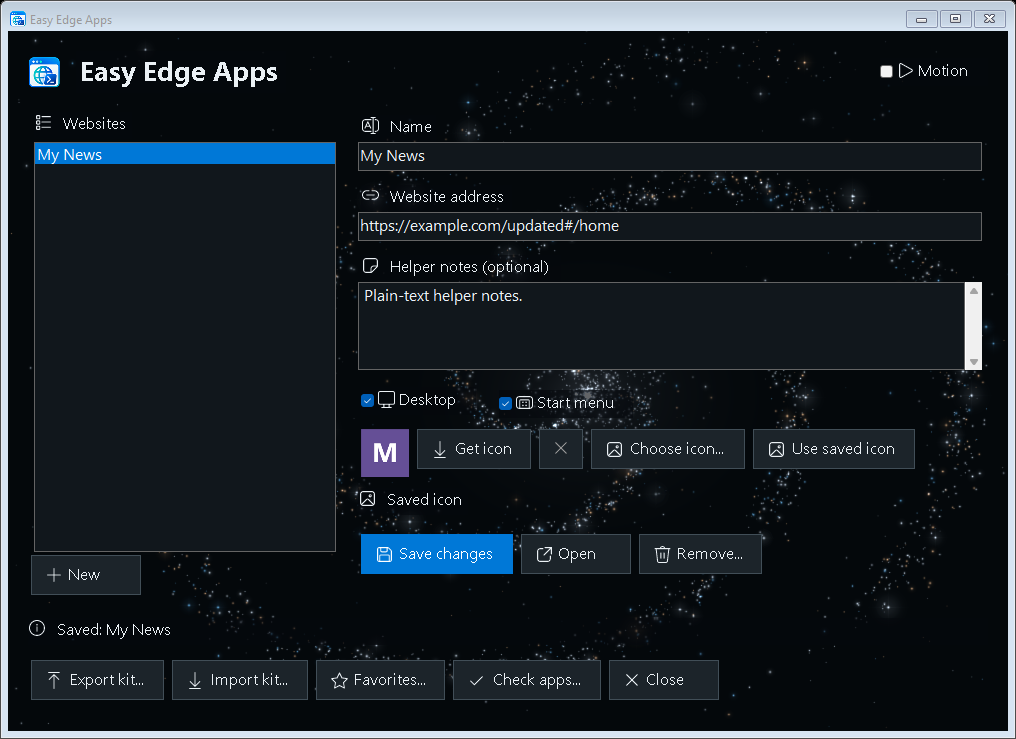
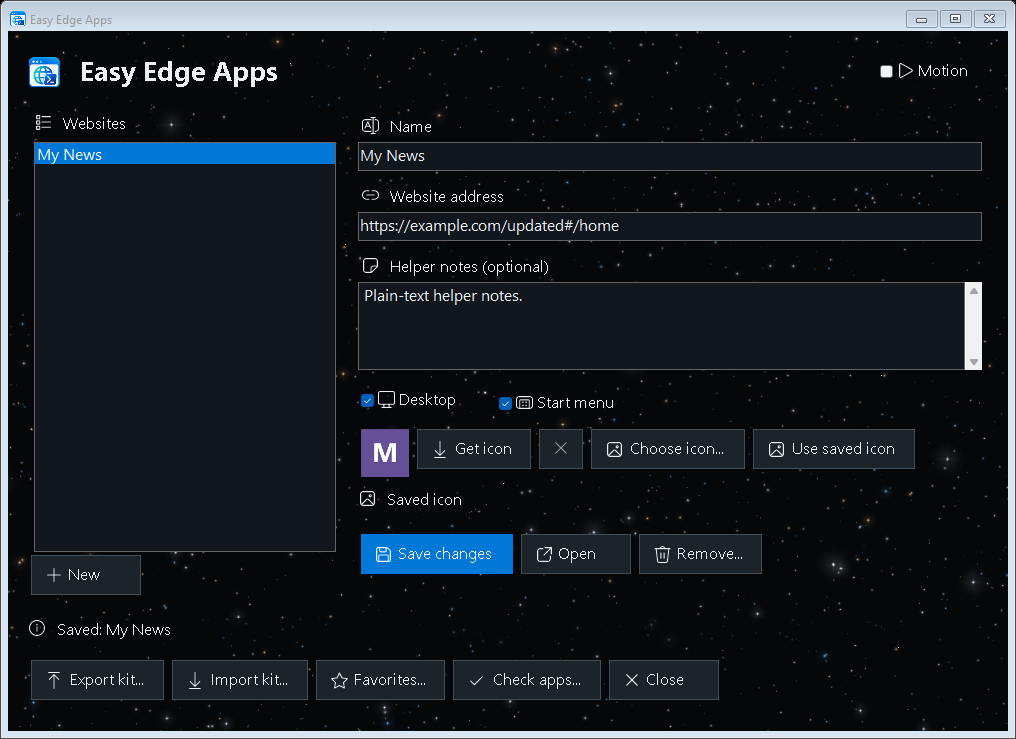
Scatter stars and keep visible backgrounds moving without focus

diff --git a/docs/releases/v1.2.0.md b/docs/releases/v1.2.0.md
@@ -8,7 +8,7 @@ Website icons, command-line automation, and an updated native Windows setup expe
 - **Command-line automation:** `-Unattended` explicitly approves supported operations without setup dialogs or confirmation prompts, preserves validation and `-WhatIf`, returns structured results, and provides explicit success/failure exit codes. Kit import supports selected `-AppNames`; encrypted operations continue to accept caller-managed `SecureString` values only.
 - **Built-in help:** `--help`, `-h`, `-Help`, and PowerShell's standard `-?` display help without opening setup or performing an operation.
 - **Refreshed native controls:** Embedded application branding, Windows-style command and field icons, accessible tooltips, and enlarged-font layouts. Ctrl+Backspace deletes words without inserting control characters and retains native undo.
-- **Animated space background:** Original, locally rendered stars move independently of the mouse, with gently eased parallax. The **Motion** checkbox pauses animation. Reduced-motion, remote-session, high-contrast, and inactive-window behavior keep accessibility and resource use in view.
+- **Animated space background:** Original, locally rendered stars are scattered across a dark sky and drift gently, with no spiral or orbital motion. They keep moving even when the mouse is outside the window or another application has focus, with gently eased parallax when the mouse is inside. The **Motion** checkbox pauses animation, as do hiding, minimizing, or resizing setup. Reduced-motion and remote-session settings keep the scene still; high contrast removes it.
 
 ## Fixes and hardening
 
@@ -37,6 +37,6 @@ Ownership, preflight, per-app staging, locking, and caught-error rollback remain
 
 ## Verification
 
-Ten isolated suites cover shortcut ownership and rollback, JSON portability and bounds, Favorites, favicon discovery and conversion, real background workers and cancellation, App Kits and repair, cryptographic vectors, encrypted-file interoperability, public CLI binding, and both native GUI surfaces. The runner covers Windows PowerShell 5.1 and PowerShell 7, including 12-, 18-, and 24-point layouts within 1024 by 768 and stale UI-assembly reloads.
+Ten isolated suites cover shortcut ownership and rollback, JSON portability and bounds, Favorites, favicon discovery and conversion, real background workers and cancellation, App Kits and repair, cryptographic vectors, encrypted-file interoperability, public CLI binding, and both native GUI surfaces. The runner covers Windows PowerShell 5.1 and PowerShell 7, including 12-, 18-, and 24-point layouts within 1024 by 768, stale UI-assembly reloads, scattered-star pixel coverage, and animation without mouse input or window focus.
 
 Live public-site favicon retrieval is also checked separately from the deterministic offline suite. Real-site sign-in, physical high-DPI/high-contrast/Narrator use, cross-computer handover, and OneDrive/network-filesystem behavior still require acceptance checks on the intended computers. See the README, automation guide, security guidance, and App Kit specification for details.

diff --git a/README.md b/README.md
@@ -33,7 +33,7 @@ This execution-policy option applies only to that PowerShell process. It does no
 
 Use ordinary site addresses, not password-reset links, one-time sign-in links, or URLs containing secrets. Addresses, including query strings and fragments, are saved locally in clear text.
 
-![The setup window with a spiral starfield, a saved website, Get icon controls, and a Motion checkbox.](docs/images/setup.png)
+![The setup window with scattered stars, a saved website, Get icon controls, and a Motion checkbox.](docs/images/setup.png)
 
 The screenshot shows version 1.2.0 with animation paused and synthetic example data.
 
@@ -46,7 +46,7 @@ The screenshot shows version 1.2.0 with animation paused and synthetic example d
 - Setup uses native Windows controls, keyboard navigation, accessible names, and a resizable layout. Primary actions follow Windows highlight colors; high contrast restores system-colored controls. Destructive confirmation defaults to **No**.
 - The application logo is embedded in the script for the setup header and window icons; no separate branding file or download is needed at runtime.
 - **Windows-style controls:** Buttons, field/status labels, and checkboxes have icons, primary actions use system highlight colors, and textboxes support Ctrl+Backspace word deletion. Icons use the installed Segoe Fluent Icons font, falling back to Segoe MDL2 Assets or text-only controls. No fonts are bundled or downloaded. Text labels and keyboard navigation remain available; compact navigation buttons also have full accessible names and tooltips.
-- **Space background:** Setup has an original procedural spiral galaxy with continuously moving stars, soft starlight, and gently eased mouse parallax. Clear **Motion** to pause it. Windows reduced-motion settings and remote sessions keep the scene still; high contrast removes it. Animation also pauses while setup is inactive, hidden, minimized, or being resized. The background is rendered locally inside the single script, with no web view, asset downloads, or background service. Website shortcuts are unaffected.
+- **Space background:** Setup has an original procedural starfield with stars scattered across a dark sky, gentle independent drift, and softly eased mouse parallax. There are no spiral arms, central glow, or orbital motion. Stars keep moving when the mouse is outside the window or another application has focus. Clear **Motion** to pause it. Windows reduced-motion settings and remote sessions keep the scene still; high contrast removes it. Animation also pauses while setup is hidden, minimized, or being resized. The background is rendered locally inside the single script, with no web view, asset downloads, or background service. Website shortcuts are unaffected.
 
 The intended setup operator is a helper. The person using the shortcuts does not need to manage PowerShell.
 
